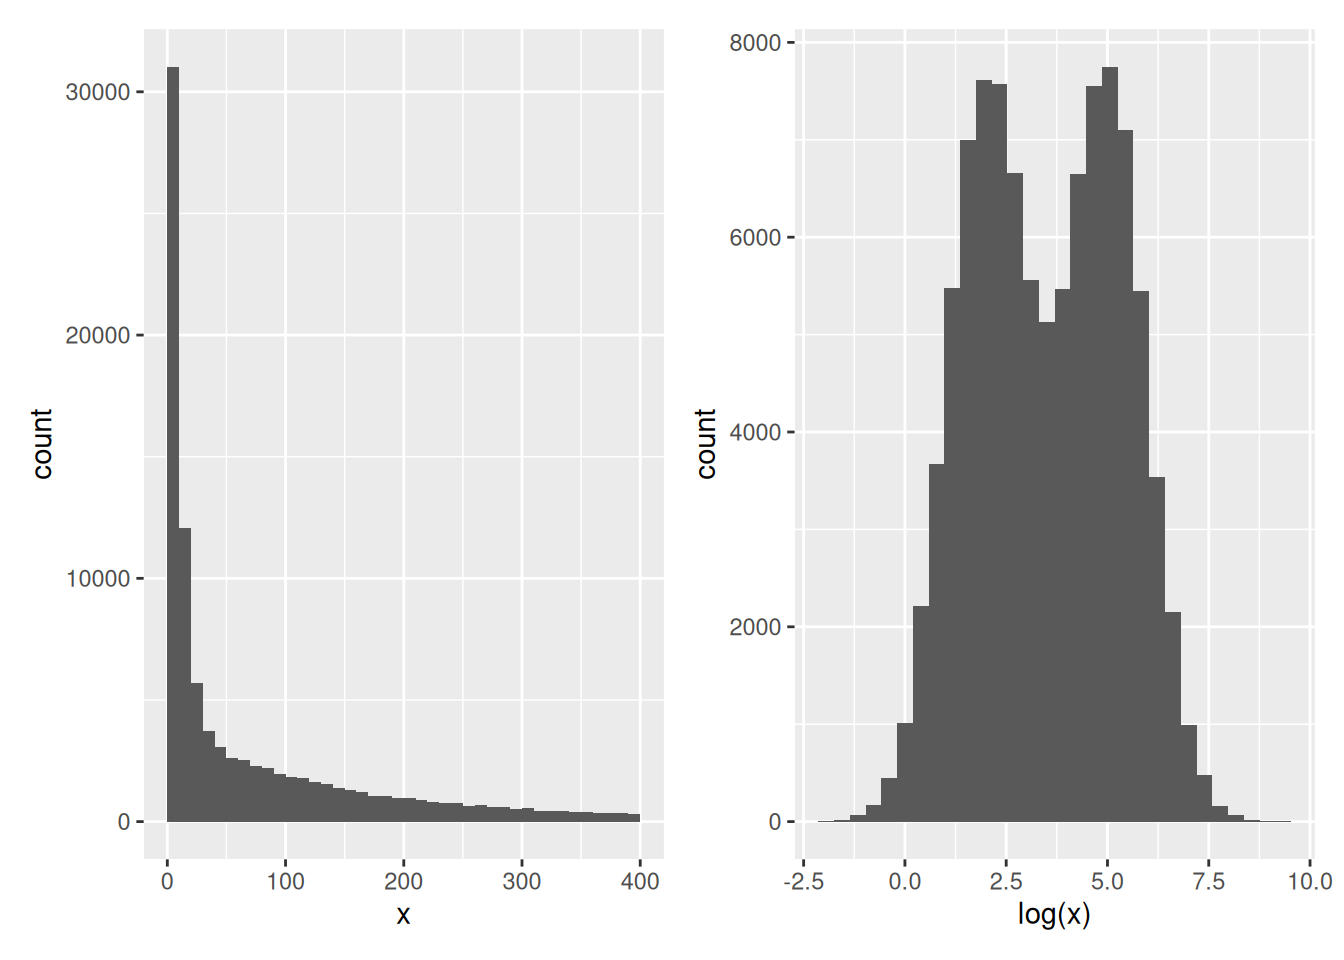
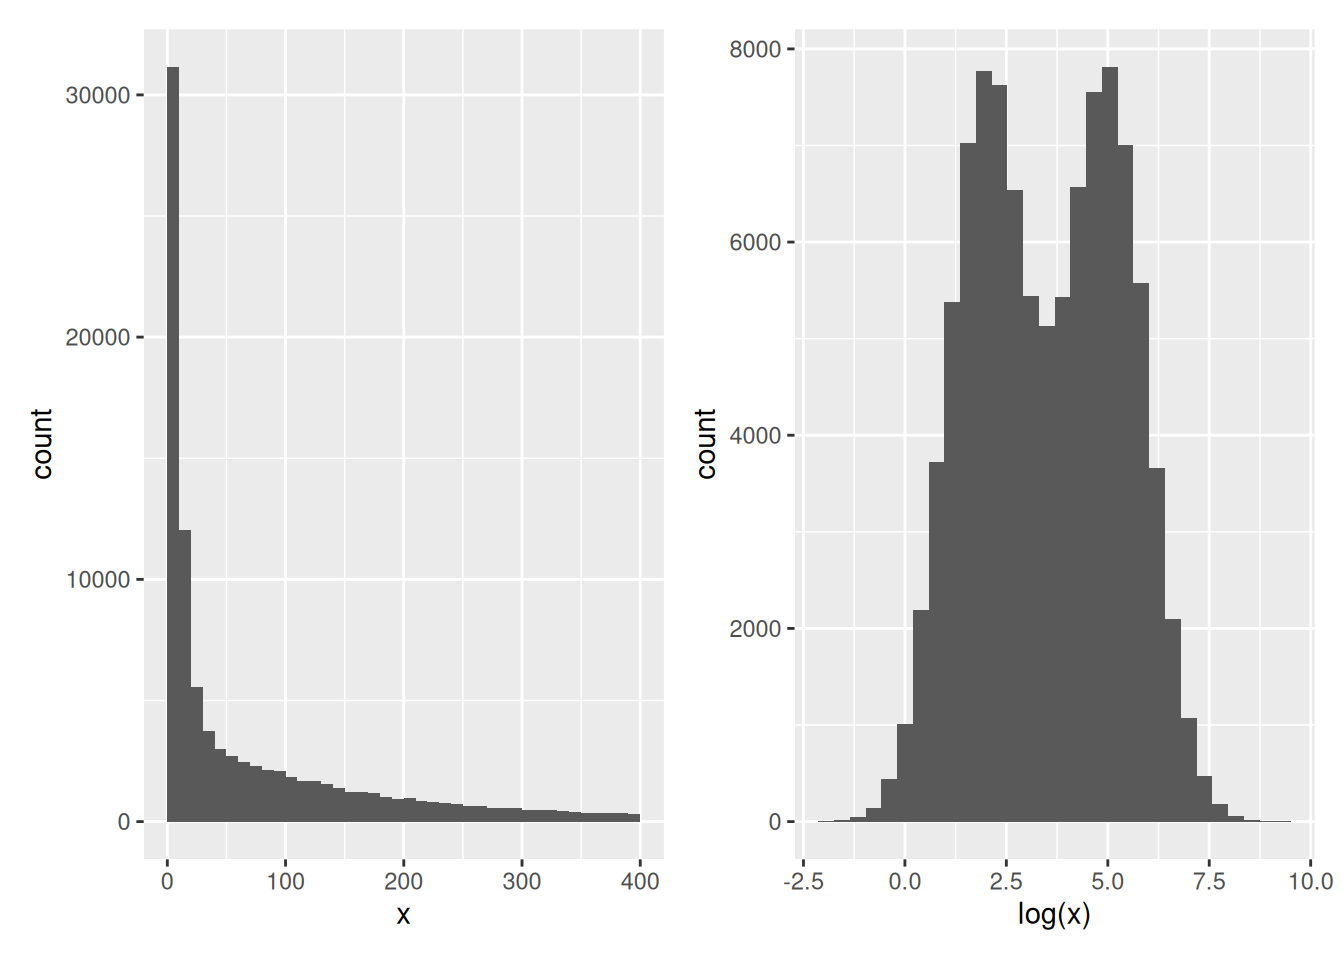
rebuild book

diff --git a/docs/sec-sl.html b/docs/sec-sl.html
@@ -13,7 +13,7 @@
 
 <meta name="author" content="Laurent Gatto" />
 
-<meta name="date" content="2023-11-01" />
+<meta name="date" content="2023-11-12" />
 
 <script type="text/x-mathjax-config">
 MathJax.Hub.Config({
@@ -375,7 +375,7 @@ labelled data that will be used to train the model and named
 </p>
 </div>
 </div>
-<p>The <code>knn</code> function takes, among others<a href="#fn12" class="footnote-ref" id="fnref12"><sup>12</sup></a>, the following arguments:</p>
+<p>The <code>knn</code> function takes, among others<a href="#fn13" class="footnote-ref" id="fnref13"><sup>13</sup></a>, the following arguments:</p>
 <ol style="list-style-type: decimal">
 <li>the labelled predictors, that will be used to <em>train</em> the model,</li>
 <li>the unlabelled predictors, on which the model will be applied (see
@@ -907,7 +907,7 @@ not too much. If the model is too specific for the data that was used
 to build it (the model would be said to be <strong>over fitting the data</strong>)
 and would not be applicable to new data (the model would have high
 bias). On the other hand, a model that is too general, that wouldn’t
-be applicable enough to the data, or type of data at hand<a href="#fn13" class="footnote-ref" id="fnref13"><sup>13</sup></a>, it
+be applicable enough to the data, or type of data at hand<a href="#fn14" class="footnote-ref" id="fnref14"><sup>14</sup></a>, it
 would perform poorly, and hence lead to high variance.</p>
 <p>This variance and bias trade-off can be illustrated in different
 ways. The figure below (reproduced with permission from <span class="citation">(<label for="tufte-mn-27" class="margin-toggle">⊕</label><input type="checkbox" id="tufte-mn-27" class="margin-toggle">James et al. 2014<span class="marginnote">James, Gareth, Daniela Witten, Trevor Hastie, and Robert Tibshirani. 2014. <em>An Introduction to Statistical Learning: With Applications in r</em>. Springer Publishing Company, Incorporated.</span>)</span>) shows
@@ -1047,11 +1047,11 @@ most reliable assignments one, and setting the unreliable ones to
 </div>
 <div class="footnotes">
 <hr>
-<ol start="12">
-<li id="fn12"><p>we will see additional ones later.<a href="sec-sl.html#fnref12" class="footnote-back">↩</a></p></li>
-<li id="fn13"><p>In our example, this would equate to the expression of the
+<ol start="13">
+<li id="fn13"><p>we will see additional ones later.<a href="sec-sl.html#fnref13" class="footnote-back">↩</a></p></li>
+<li id="fn14"><p>In our example, this would equate to the expression of the
 four genes of interest in a specific population of cancer
-patients, for example.<a href="sec-sl.html#fnref13" class="footnote-back">↩</a></p></li>
+patients, for example.<a href="sec-sl.html#fnref14" class="footnote-back">↩</a></p></li>
 </ol>
 </div>
 </body></html>
@@ -1061,7 +1061,7 @@ patients, for example.<a href="sec-sl.html#fnref13" class="footnote-back">↩
 <a href="sec-biovis.html"><button class="btn btn-default">Next</button></a>
 </p>
 <p class="build-date">Page built: 
-2023-11-01
+2023-11-12
  using 
 R version 4.3.1 Patched (2023-07-10 r84676)
 </p>

diff --git a/docs/sec-ul.html b/docs/sec-ul.html
@@ -13,7 +13,7 @@
 
 <meta name="author" content="Laurent Gatto" />
 
-<meta name="date" content="2023-11-01" />
+<meta name="date" content="2023-11-12" />
 
 <script type="text/x-mathjax-config">
 MathJax.Hub.Config({
@@ -373,7 +373,7 @@ Figure 9.2: Visualisation of the average sample, in red.
 <h2>
 <span class="header-section-number">9.3</span> k-means clustering<div class="tooltip"><button class="internal-link-btn" onclick="copy_link('k-means-clustering')" onmouseout="reset_tooltip('k-means-clustering-tooltip')"><span class="tooltiptext" id="k-means-clustering-tooltip">Copy link</span><i class="fa fa-link"></i></button></div>
 </h2>
-<p>The k-means clustering algorithm<a href="#fn10" class="footnote-ref" id="fnref10"><sup>10</sup></a> aims at partitioning <em>n</em>
+<p>The k-means clustering algorithm<a href="#fn11" class="footnote-ref" id="fnref11"><sup>11</sup></a> aims at partitioning <em>n</em>
 observations into a fixed number of <em>k</em> clusters. This algorithm will
 find homogeneous clusters.</p>
 <p>In R, we use</p>
@@ -663,7 +663,7 @@ Figure 9.10: Hierarchical clustering: initialisation (left) and colour-coded res
 <img src="WSBIM1322_files/figure-html/hcldata-1.png" alt="Hierarchical clustering: initialisation (left) and colour-coded results after iteration (right)." width="1152">
 </div>
 <p>The results of hierarchical clustering are typically visualised along
-a <strong>dendrogram</strong><a href="#fn11" class="footnote-ref" id="fnref11"><sup>11</sup></a>, where the distance between the clusters is
+a <strong>dendrogram</strong><a href="#fn12" class="footnote-ref" id="fnref12"><sup>12</sup></a>, where the distance between the clusters is
 proportional to the branch lengths.</p>
 <div class="figure">
 <span style="display:block;" id="fig:hcldendro"></span>
@@ -991,13 +991,13 @@ average marker profiles, such as shown below.</p></li>
 </div>
 <div class="footnotes">
 <hr>
-<ol start="10">
-<li id="fn10"><p>We will learn how the algorithm works below.<a href="sec-ul.html#fnref10" class="footnote-back">↩</a></p></li>
-<li id="fn11"><p>Note that dendrograms, or trees in general, are used in
+<ol start="11">
+<li id="fn11"><p>We will learn how the algorithm works below.<a href="sec-ul.html#fnref11" class="footnote-back">↩</a></p></li>
+<li id="fn12"><p>Note that dendrograms, or trees in general, are used in
 evolutionary biology to visualise the evolutionary history of
 taxa. In this course, we use them to represent similarities (based
 on distances) and don’t assess any evolutionary relations between
-features or samples.<a href="sec-ul.html#fnref11" class="footnote-back">↩</a></p></li>
+features or samples.<a href="sec-ul.html#fnref12" class="footnote-back">↩</a></p></li>
 </ol>
 </div>
 </body></html>
@@ -1007,7 +1007,7 @@ features or samples.<a href="sec-ul.html#fnref11" class="footnote-back">↩</
 <a href="sec-sl.html"><button class="btn btn-default">Next</button></a>
 </p>
 <p class="build-date">Page built: 
-2023-11-01
+2023-11-12
  using 
 R version 4.3.1 Patched (2023-07-10 r84676)
 </p>

diff --git a/docs/sec-dimred.html b/docs/sec-dimred.html
@@ -13,7 +13,7 @@
 
 <meta name="author" content="Laurent Gatto" />
 
-<meta name="date" content="2023-11-01" />
+<meta name="date" content="2023-11-12" />
 
 <script type="text/x-mathjax-config">
 MathJax.Hub.Config({
@@ -206,7 +206,8 @@ div.csl-indent {
 <div class="row">
 <div class="col-sm-12">
 <!DOCTYPE html PUBLIC "-//W3C//DTD HTML 4.0 Transitional//EN" "http://www.w3.org/TR/REC-html40/loose.dtd">
-<html><body><div id="sec-dimred" class="section level1" number="8">
+<html><body>
+<div id="sec-dimred" class="section level1" number="8">
 <h1>
 <span class="header-section-number">Chapter 8</span> Unsupervised learning: dimensionality reduction</h1>
 <p>In <strong>unsupervised learning</strong> (UML), no labels are provided, and the
@@ -841,9 +842,10 @@ Figure 8.10: Scree plot for the <code>mulvey2015_se</code> data showing the perc
 function from the <code>factoextra</code> package, or the <code>fviz_pca_ind</code>
 function to focus on the individuals (the rows of the original
 input).</p></li>
-<li><p>Use the <code>habillage</code> argument of the <code>fviz_pca_ind</code> function to
-highlight the time experimental variable. Interpret the figures in
-the light of the experimental design.</p></li>
+<li><p>Use the <code>habillage</code> or <code>col.ind</code> arguments<a href="#fn10" class="footnote-ref" id="fnref10"><sup>10</sup></a> of the
+<code>fviz_pca_ind()</code> function to highlight the time experimental
+variable. Interpret the figures in the light of the experimental
+design.</p></li>
 </ul>
 <p class="question-end">
 <span class="fa fa-square-o solution-icon"></span>
@@ -1332,14 +1334,24 @@ the labels?</p>
 </div>
 
 </div>
-</div></body></html>
+</div>
+<div class="footnotes">
+<hr>
+<ol start="10">
+<li id="fn10"><p>The <code>habillage</code> only uses (or converts to) factors, and is
+this appropriate for categories. If the variable to be
+highlighted on the PCA plot is continuous, then <code>col.ind</code> should
+be used. See <code>?fviz_pca_ind</code> for details.<a href="sec-dimred.html#fnref10" class="footnote-back">↩</a></p></li>
+</ol>
+</div>
+</body></html>
 
 <p style="text-align: center;">
 <a href="sec-testing.html"><button class="btn btn-default">Previous</button></a>
 <a href="sec-ul.html"><button class="btn btn-default">Next</button></a>
 </p>
 <p class="build-date">Page built: 
-2023-11-01
+2023-11-12
  using 
 R version 4.3.1 Patched (2023-07-10 r84676)
 </p>

diff --git a/docs/sec-biovis.html b/docs/sec-biovis.html
@@ -13,7 +13,7 @@
 
 <meta name="author" content="Laurent Gatto" />
 
-<meta name="date" content="2023-11-01" />
+<meta name="date" content="2023-11-12" />
 
 <script type="text/x-mathjax-config">
 MathJax.Hub.Config({
@@ -328,7 +328,7 @@ data (not only proteomics) for a useful reference.</p>
 analysis. Venn and Euler diagrams are popular representation when
 comparing sets and their intersection. Two useful R packages to
 generate such plots are
-<em><a href="https://CRAN.R-project.org/package=venneuler">venneuler</a></em> and <em><a href="https://github.com/js229/Vennerable">Vennerable</a></em><a href="#fn14" class="footnote-ref" id="fnref14"><sup>14</sup></a>.</p>
+<em><a href="https://CRAN.R-project.org/package=venneuler">venneuler</a></em> and <em><a href="https://github.com/js229/Vennerable">Vennerable</a></em><a href="#fn15" class="footnote-ref" id="fnref15"><sup>15</sup></a>.</p>
 <p>We will use the <code>mulvey2015norm_se</code> feature names to generate a test data:</p>
 <div class="sourceCode" id="cb431"><pre class="sourceCode r"><code class="sourceCode r"><span id="cb431-1"><a href="sec-biovis.html#cb431-1" tabindex="-1"></a><span class="fu">set.seed</span>(<span class="dv">123</span>)</span>
 <span id="cb431-2"><a href="sec-biovis.html#cb431-2" tabindex="-1"></a>feat_list <span class="ot">&lt;-</span> <span class="fu">replicate</span>(<span class="dv">3</span>,</span>
@@ -485,9 +485,9 @@ number of intersections (default is 40) become useful.</p>
 </div>
 <div class="footnotes">
 <hr>
-<ol start="14">
-<li id="fn14"><p>You can install <code>Vennerable</code> with
-<code>BiocManager::install("js229/Vennerable")</code>.<a href="sec-biovis.html#fnref14" class="footnote-back">↩</a></p></li>
+<ol start="15">
+<li id="fn15"><p>You can install <code>Vennerable</code> with
+<code>BiocManager::install("js229/Vennerable")</code>.<a href="sec-biovis.html#fnref15" class="footnote-back">↩</a></p></li>
 </ol>
 </div>
 </body></html>
@@ -497,7 +497,7 @@ number of intersections (default is 40) become useful.</p>
 <a href="sec-ccl.html"><button class="btn btn-default">Next</button></a>
 </p>
 <p class="build-date">Page built: 
-2023-11-01
+2023-11-12
  using 
 R version 4.3.1 Patched (2023-07-10 r84676)
 </p>

diff --git a/docs/sec-vis.html b/docs/sec-vis.html
@@ -13,7 +13,7 @@
 
 <meta name="author" content="Laurent Gatto" />
 
-<meta name="date" content="2023-11-01" />
+<meta name="date" content="2023-11-12" />
 
 <script type="text/x-mathjax-config">
 MathJax.Hub.Config({
@@ -949,7 +949,7 @@ of the data.</p>
 <span id="cb36-9"><a href="sec-vis.html#cb36-9" tabindex="-1"></a>p2 <span class="ot">&lt;-</span>  <span class="fu">ggplot</span>(sim, <span class="fu">aes</span>(<span class="fu">log</span>(x))) <span class="sc">+</span></span>
 <span id="cb36-10"><a href="sec-vis.html#cb36-10" tabindex="-1"></a>    <span class="fu">geom_histogram</span>(<span class="at">bins =</span> <span class="dv">30</span>)</span>
 <span id="cb36-11"><a href="sec-vis.html#cb36-11" tabindex="-1"></a>p1 <span class="sc">+</span> p2</span></code></pre></div>
-<pre><code>## Warning: Removed 7866 rows containing non-finite values (`stat_bin()`).</code></pre>
+<pre><code>## Warning: Removed 7950 rows containing non-finite values (`stat_bin()`).</code></pre>
 <div class="figure">
 <span style="display:block;" id="fig:sim"></span>
 <p class="caption marginnote shownote">
@@ -1205,7 +1205,7 @@ Analysis. Springer-Verlag New York.<a href="sec-vis.html#fnref2" class="footnote
 <a href="sec-obj.html"><button class="btn btn-default">Next</button></a>
 </p>
 <p class="build-date">Page built: 
-2023-11-01
+2023-11-12
  using 
 R version 4.3.1 Patched (2023-07-10 r84676)
 </p>

diff --git a/docs/sec-obj.html b/docs/sec-obj.html
@@ -13,7 +13,7 @@
 
 <meta name="author" content="Laurent Gatto" />
 
-<meta name="date" content="2023-11-01" />
+<meta name="date" content="2023-11-12" />
 
 <script type="text/x-mathjax-config">
 MathJax.Hub.Config({
@@ -1042,7 +1042,7 @@ missing.<a href="sec-obj.html#fnref5" class="footnote-back">↩</a></p></li>
 <a href="sec-biostrings.html"><button class="btn btn-default">Next</button></a>
 </p>
 <p class="build-date">Page built: 
-2023-11-01
+2023-11-12
  using 
 R version 4.3.1 Patched (2023-07-10 r84676)
 </p>

diff --git a/docs/sec-norm.html b/docs/sec-norm.html
@@ -13,7 +13,7 @@
 
 <meta name="author" content="Laurent Gatto" />
 
-<meta name="date" content="2023-11-01" />
+<meta name="date" content="2023-11-12" />
 
 <script type="text/x-mathjax-config">
 MathJax.Hub.Config({
@@ -769,7 +769,7 @@ variability of such experimental data.<a href="sec-norm.html#fnref7" class="foot
 <a href="sec-mlintro.html"><button class="btn btn-default">Next</button></a>
 </p>
 <p class="build-date">Page built: 
-2023-11-01
+2023-11-12
  using 
 R version 4.3.1 Patched (2023-07-10 r84676)
 </p>

diff --git a/docs/sec-ccl.html b/docs/sec-ccl.html
@@ -13,7 +13,7 @@
 
 <meta name="author" content="Laurent Gatto" />
 
-<meta name="date" content="2023-11-01" />
+<meta name="date" content="2023-11-12" />
 
 <script type="text/x-mathjax-config">
 MathJax.Hub.Config({
@@ -513,7 +513,7 @@ effect of that outlier of the differential analysis.</li>
 <a href="sec-si.html"><button class="btn btn-default">Next</button></a>
 </p>
 <p class="build-date">Page built: 
-2023-11-01
+2023-11-12
  using 
 R version 4.3.1 Patched (2023-07-10 r84676)
 </p>

diff --git a/docs/sec-mlintro.html b/docs/sec-mlintro.html
@@ -13,7 +13,7 @@
 
 <meta name="author" content="Laurent Gatto" />
 
-<meta name="date" content="2023-11-01" />
+<meta name="date" content="2023-11-12" />
 
 <script type="text/x-mathjax-config">
 MathJax.Hub.Config({
@@ -760,7 +760,7 @@ but these are beyond the scope of this course.</p>
 <a href="sec-testing.html"><button class="btn btn-default">Next</button></a>
 </p>
 <p class="build-date">Page built: 
-2023-11-01
+2023-11-12
  using 
 R version 4.3.1 Patched (2023-07-10 r84676)
 </p>

diff --git a/docs/index.html b/docs/index.html
@@ -13,7 +13,7 @@
 
 <meta name="author" content="Laurent Gatto" />
 
-<meta name="date" content="2023-11-01" />
+<meta name="date" content="2023-11-12" />
 
 <script type="text/x-mathjax-config">
 MathJax.Hub.Config({
@@ -351,7 +351,7 @@ course. It can be installed with</p>
 <a href="sec-refresher.html"><button class="btn btn-default">Next</button></a>
 </p>
 <p class="build-date">Page built: 
-2023-11-01
+2023-11-12
  using 
 R version 4.3.1 Patched (2023-07-10 r84676)
 </p>

diff --git a/docs/sec-refresher.html b/docs/sec-refresher.html
@@ -13,7 +13,7 @@
 
 <meta name="author" content="Laurent Gatto" />
 
-<meta name="date" content="2023-11-01" />
+<meta name="date" content="2023-11-12" />
 
 <script type="text/x-mathjax-config">
 MathJax.Hub.Config({
@@ -395,7 +395,7 @@ state it explicitly in your response.</p>
 <a href="sec-vis.html"><button class="btn btn-default">Next</button></a>
 </p>
 <p class="build-date">Page built: 
-2023-11-01
+2023-11-12
  using 
 R version 4.3.1 Patched (2023-07-10 r84676)
 </p>

diff --git a/docs/sec-si.html b/docs/sec-si.html
@@ -13,7 +13,7 @@
 
 <meta name="author" content="Laurent Gatto" />
 
-<meta name="date" content="2023-11-01" />
+<meta name="date" content="2023-11-12" />
 
 <script type="text/x-mathjax-config">
 MathJax.Hub.Config({
@@ -323,7 +323,7 @@ the following code:</p>
 <a href="sec-ccl.html"><button class="btn btn-default">Previous</button></a>
 </p>
 <p class="build-date">Page built: 
-2023-11-01
+2023-11-12
  using 
 R version 4.3.1 Patched (2023-07-10 r84676)
 </p>
